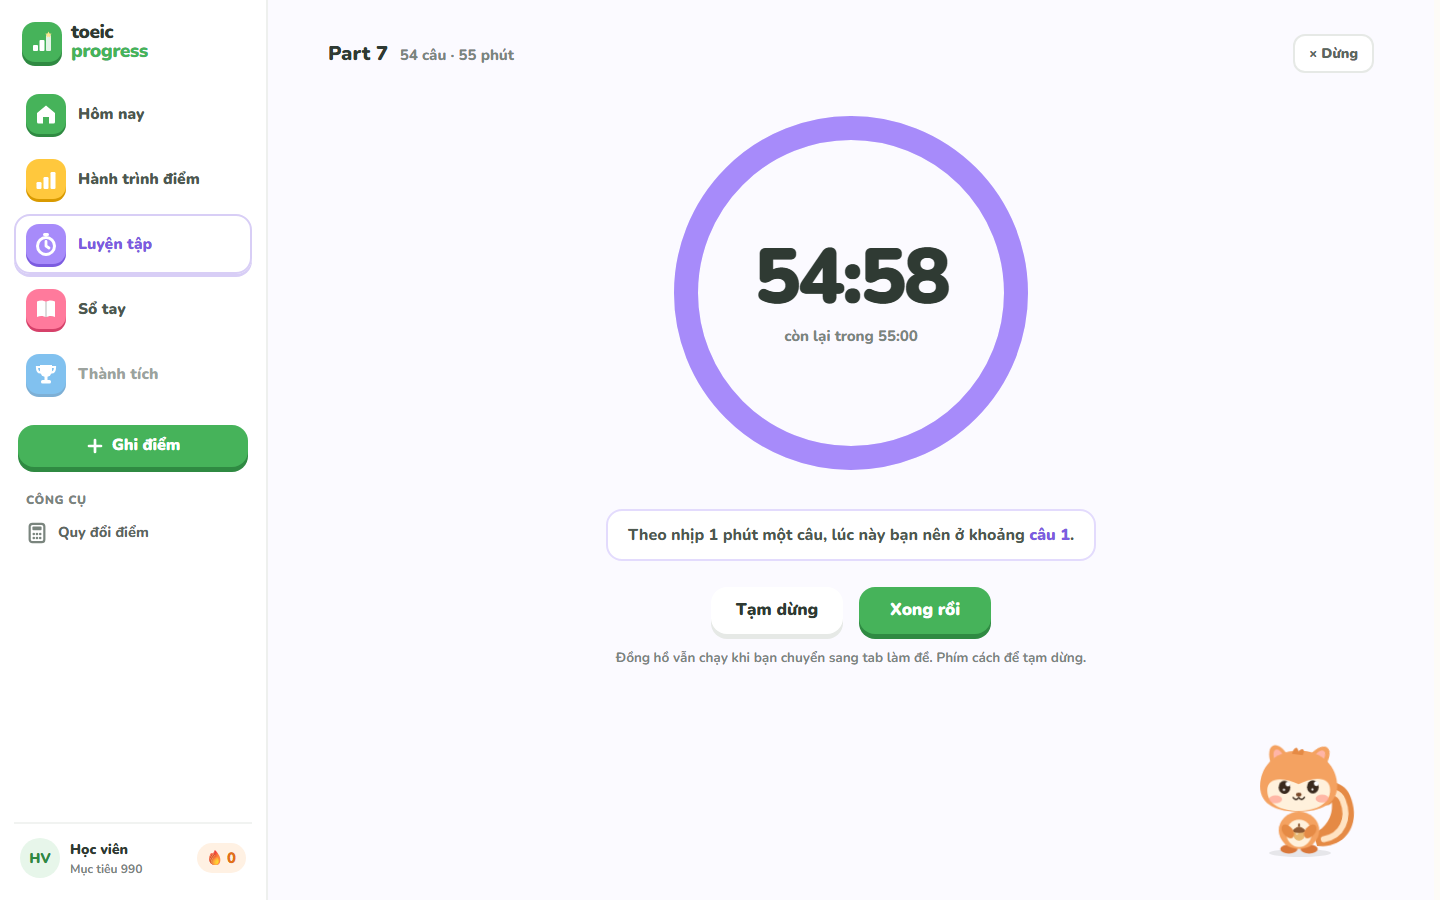
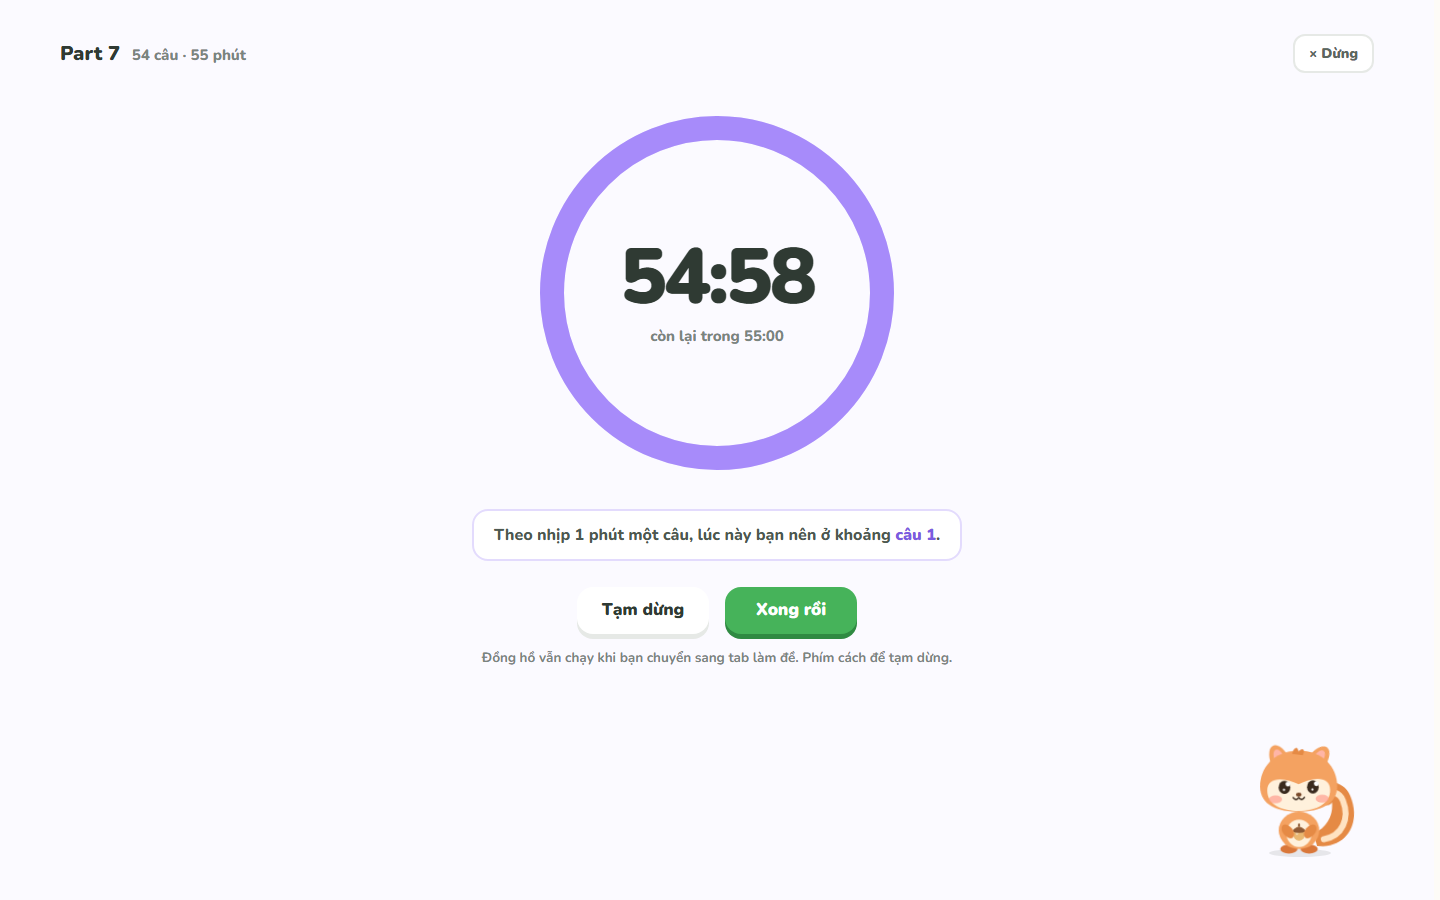
Hide the sidebar while a practice clock is running
Matches the focus view in design/previews/mock-practice.html: from start to
the saved result the page fills the screen; the sidebar returns afterwards.

diff --git a/frontend/src/app/App.tsx b/frontend/src/app/App.tsx
@@ -132,6 +132,7 @@ export const App: React.FC = () => {
   const [pacingInitialPart, setPacingInitialPart] = useState<ReadingPartType>('PART_5');
   // Pomodoro keeps the older clock view; the redesigned Luyện tập handles Reading presets.
   const [pomodoroOpen, setPomodoroOpen] = useState(false);
+  const [practiceFocus, setPracticeFocus] = useState(false);
   useEffect(() => { if (activeTab !== 'exam-mode') setPomodoroOpen(false); }, [activeTab]);
   const navigateToPacing = (part: ReadingPartType) => {
     const owner = getActiveAccountId(), draft = readTimer(owner), target = supportedMode(part);
@@ -466,7 +467,7 @@ export const App: React.FC = () => {
     <div className="min-h-screen bg-[#FDFBF7] dark:bg-[#070C16] text-slate-900 dark:text-slate-100 flex transition-colors">
       
       {/* 1. Sidebar (Desktop Persistent & Mobile Overlay Drawer Unified) */}
-      <RdSidebar
+      {!(practiceFocus && activeTab === 'exam-mode') && <RdSidebar
         activeTab={activeTab}
         setActiveTab={setActiveTab}
         profile={profile}
@@ -474,7 +475,7 @@ export const App: React.FC = () => {
         streak={streakNow}
         onOpenSessionLogger={() => openSessionLogger()}
         onOpenSettings={() => setIsSettingsModalOpen(true)}
-      />
+      />}
 
       {/* 2. Main Content View Area (Right) */}
       <div className="flex-1 flex flex-col min-w-0 min-h-screen">
@@ -525,6 +526,7 @@ export const App: React.FC = () => {
             onEditSession={openSessionEditor}
             onSessionsChanged={handleSessionsChangedElsewhere}
             onOpenPomodoro={() => { setPacingInitialPart('POMODORO'); setPomodoroOpen(true); }}
+            onFocusChange={setPracticeFocus}
           />
         ) : showJourney ? (
           <JourneyPage

diff --git a/frontend/src/features/pacing/components/PracticePage.tsx b/frontend/src/features/pacing/components/PracticePage.tsx
@@ -19,6 +19,8 @@ interface Props {
   onEditSession: (session: StudySession) => void;
   onSessionsChanged: () => void;
   onOpenPomodoro: () => void;
+  /** True while a clock is running, paused or awaiting its result: the app hides the sidebar for focus. */
+  onFocusChange?: (focused: boolean) => void;
 }
 
 const CHOICES: Array<{ mode: PacingMode; label: string }> = [
@@ -37,7 +39,7 @@ export function PracticePage(props: Props) {
   return <PracticeWorkspace key={owner ?? 'guest'} owner={owner} {...props} />;
 }
 
-function PracticeWorkspace({ owner, sessions, initialPart, resultDialogBlocked = false, onOpenSessionLogger, onEditSession, onSessionsChanged, onOpenPomodoro }: Props & { owner: string | null }) {
+function PracticeWorkspace({ owner, sessions, initialPart, resultDialogBlocked = false, onOpenSessionLogger, onEditSession, onSessionsChanged, onOpenPomodoro, onFocusChange }: Props & { owner: string | null }) {
   const [settings] = useState(() => readPomodoroSettings(owner));
   const timer = usePacingTimer(owner, supportedMode(initialPart ?? 'PART_5'), settings);
   const { snapshot, now } = timer;
@@ -57,6 +59,9 @@ function PracticeWorkspace({ owner, sessions, initialPart, resultDialogBlocked =
 
   const suggestion = useMemo(() => pickTodayTasks(readDataBundle(), localDate(Date.now())).find(t => t.kind === 'PART_TIMER'), [sessions]); // eslint-disable-line react-hooks/exhaustive-deps
   useEffect(() => { setWrong(0); }, [snapshot.id]);
+  const focused = snapshot.status !== 'ready';
+  useEffect(() => { onFocusChange?.(focused); }, [focused, onFocusChange]);
+  useEffect(() => () => onFocusChange?.(false), [onFocusChange]);
 
   useEffect(() => {
     if (snapshot.status !== 'finished' || played.current === snapshot.id) return;
